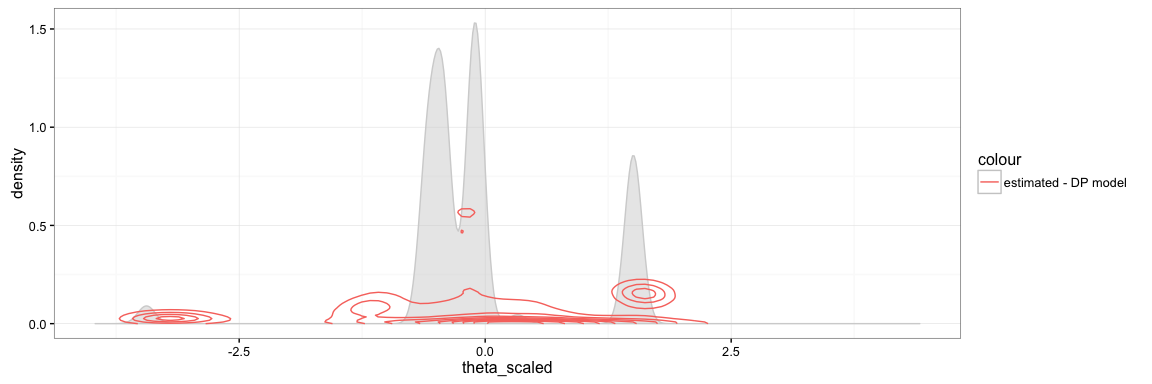
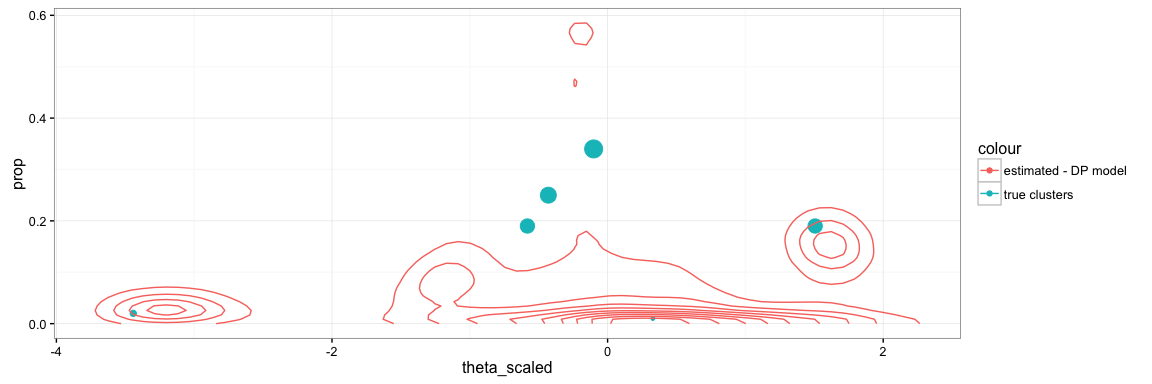
updated test_rstan_DPP figs to improve display

diff --git a/test_rstan_DPP.md b/test_rstan_DPP.md
@@ -187,7 +187,7 @@ Fitting the model in Stan
     ## theta[4]  0.25    0.03 0.42 -0.22 -0.06  0.11  0.48  1.39   148 1.02
     ## theta[5]  1.60    0.00 0.13  1.33  1.52  1.60  1.68  1.84   758 1.01
     ## 
-    ## Samples were drawn using NUTS(diag_e) at Tue May  3 14:27:02 2016.
+    ## Samples were drawn using NUTS(diag_e) at Tue May  3 18:49:39 2016.
     ## For each parameter, n_eff is a crude measure of effective sample size,
     ## and Rhat is the potential scale reduction factor on split chains (at 
     ## convergence, Rhat=1).
@@ -356,7 +356,7 @@ before.
     ## theta[4]  0.25    0.03 0.42 -0.22 -0.06  0.11  0.48  1.39   148 1.02
     ## theta[5]  1.60    0.00 0.13  1.33  1.52  1.60  1.68  1.84   758 1.01
     ## 
-    ## Samples were drawn using NUTS(diag_e) at Tue May  3 14:27:51 2016.
+    ## Samples were drawn using NUTS(diag_e) at Tue May  3 18:50:38 2016.
     ## For each parameter, n_eff is a crude measure of effective sample size,
     ## and Rhat is the potential scale reduction factor on split chains (at 
     ## convergence, Rhat=1).
@@ -540,7 +540,7 @@ since that's the "ground truth"
     ## theta[4]  0.50    0.03 0.52 -0.23  0.07  0.45  0.85  1.56   254 1.02
     ## theta[5]  1.48    0.15 0.35  0.53  1.40  1.55  1.66  2.01     5 1.23
     ## 
-    ## Samples were drawn using NUTS(diag_e) at Tue May  3 14:29:08 2016.
+    ## Samples were drawn using NUTS(diag_e) at Tue May  3 18:52:08 2016.
     ## For each parameter, n_eff is a crude measure of effective sample size,
     ## and Rhat is the potential scale reduction factor on split chains (at 
     ## convergence, Rhat=1).
@@ -599,7 +599,7 @@ groups to, say, K = 10.
     ## theta[9]   1.23    0.02 0.42  0.29  0.94  1.35  1.56  1.83   649 1.00
     ## theta[10]  1.76    0.01 0.30  1.43  1.60  1.68  1.81  2.62  1006 1.00
     ## 
-    ## Samples were drawn using NUTS(diag_e) at Tue May  3 14:30:15 2016.
+    ## Samples were drawn using NUTS(diag_e) at Tue May  3 18:53:24 2016.
     ## For each parameter, n_eff is a crude measure of effective sample size,
     ## and Rhat is the potential scale reduction factor on split chains (at 
     ## convergence, Rhat=1).
@@ -625,7 +625,7 @@ than the proportions.
     ## theta[9]   1.23    0.02 0.42  0.29  0.94  1.35  1.56  1.83   649 1.00
     ## theta[10]  1.76    0.01 0.30  1.43  1.60  1.68  1.81  2.62  1006 1.00
     ## 
-    ## Samples were drawn using NUTS(diag_e) at Tue May  3 14:30:15 2016.
+    ## Samples were drawn using NUTS(diag_e) at Tue May  3 18:53:24 2016.
     ## For each parameter, n_eff is a crude measure of effective sample size,
     ## and Rhat is the potential scale reduction factor on split chains (at 
     ## convergence, Rhat=1).
@@ -636,7 +636,14 @@ data.
     ## weighted distribution of true values of theta
     true_theta <- 
       restaurant %>%
-      mutate(theta_scaled = (theta - global_mean)/global_sd) 
+      mutate(theta_scaled = (theta - global_mean)/global_sd
+             , global_n = n()
+             ) %>%
+      group_by(table_id) %>%
+      summarize(theta_scaled = unique(theta_scaled)
+                , prop = unique(n()/global_n)
+                ) %>%
+      ungroup()
 
     ## weighted distribution of estimated values of theta from DP model
     estimated_theta_dp <- 
@@ -664,13 +671,12 @@ data.
                  )
 
     ggplot() +
-      geom_density(data = true_theta
-                   , mapping = aes(x = theta_scaled)
-                   , colour = 'lightgrey'
-                   , fill = 'lightgrey'
-                   , alpha = 0.5
-                   ) +
-      geom_density_2d(data = estimated_dp, mapping = aes(x = theta_scaled, y = prop, colour = 'estimated - DP model')) +
+      geom_point(data = true_theta
+                 , mapping = aes(x = theta_scaled, y = prop, size = prop, colour = 'true clusters', fill = 'true clusters')
+                 ) +
+      geom_density_2d(data = estimated_dp, mapping = aes(x = theta_scaled, y = prop, colour = 'estimated - DP model', fill = 'estimated - DP model')) + 
+      scale_fill_discrete(guide = "none") +
+      scale_size_continuous(guide = "none") +
       theme_bw()
 
 ![](RmdFigs/compare-dp-estimates-theta-1.png)<!-- -->
@@ -704,14 +710,13 @@ model with K = 4
                  )
 
     ggplot() +
-      geom_density(data = true_theta
-                   , mapping = aes(x = theta_scaled)
-                   , colour = 'lightgrey'
-                   , fill = 'lightgrey'
-                   , alpha = 0.5
-                   ) +
+      geom_point(data = true_theta
+                 , mapping = aes(x = theta_scaled, y = prop, size = prop, colour = 'true clusters', fill = 'true clusters')
+                 ) +
       geom_density_2d(data = estimated_dp, mapping = aes(x = theta_scaled, y = prop, colour = 'estimated - DP model')) +
       geom_density_2d(data = estimated_mix, mapping = aes(x = theta_scaled, y = prop, colour = 'estimated - k4 mixture model')) +
+      scale_fill_discrete(guide = "none") +
+      scale_size_continuous(guide = "none") +
       theme_bw()
 
 ![](RmdFigs/compare-dp-k4-estimates-thetas-1.png)<!-- -->
@@ -838,7 +843,7 @@ our data are rescaled so 5 is quite large!).
     ## theta[9]  -0.36    0.16 3.14 -7.24 -1.68 -0.29  1.39  6.73   380 1.01
     ## theta[10] -0.46    0.20 3.62 -8.31 -3.03 -0.36  1.53  8.19   341 1.01
     ## 
-    ## Samples were drawn using NUTS(diag_e) at Tue May  3 14:32:18 2016.
+    ## Samples were drawn using NUTS(diag_e) at Tue May  3 18:55:30 2016.
     ## For each parameter, n_eff is a crude measure of effective sample size,
     ## and Rhat is the potential scale reduction factor on split chains (at 
     ## convergence, Rhat=1).
@@ -880,12 +885,11 @@ we'll be using it again.)
                  )
 
     ggplot() +
-      geom_density(data = true_theta
-                   , mapping = aes(x = theta_scaled)
-                   , colour = 'lightgrey'
-                   , fill = 'lightgrey'
-                   , alpha = 0.5
-                   ) +
+      geom_point(data = true_theta
+                 , mapping = aes(x = theta_scaled, y = prop, size = prop, colour = 'true clusters', fill = 'true clusters')
+                 ) +
+      scale_fill_discrete(guide = "none") +
+      scale_size_continuous(guide = "none") +
       geom_density_2d(data = estimated_dp2, mapping = aes(x = theta_scaled, y = prop, colour = 'estimated - DP model')) +
       theme_bw()
 
@@ -916,7 +920,7 @@ close is this to our estimate?
     ##   mean se_mean   sd 2.5%  25% 50%   75% 97.5% n_eff Rhat
     ## a 8.73    1.02 7.14 0.54 2.75 6.9 13.11 25.71    49 1.07
     ## 
-    ## Samples were drawn using NUTS(diag_e) at Tue May  3 14:32:18 2016.
+    ## Samples were drawn using NUTS(diag_e) at Tue May  3 18:55:30 2016.
     ## For each parameter, n_eff is a crude measure of effective sample size,
     ## and Rhat is the potential scale reduction factor on split chains (at 
     ## convergence, Rhat=1).
@@ -1024,7 +1028,7 @@ priors on a.
     ## theta[10] -0.35    0.15 1.39 -3.36 -1.07 -0.18 0.58  1.84    82 1.03
     ## a          1.40    0.03 0.61  0.47  0.95  1.32 1.78  2.78   372 1.00
     ## 
-    ## Samples were drawn using NUTS(diag_e) at Tue May  3 14:33:52 2016.
+    ## Samples were drawn using NUTS(diag_e) at Tue May  3 18:57:04 2016.
     ## For each parameter, n_eff is a crude measure of effective sample size,
     ## and Rhat is the potential scale reduction factor on split chains (at 
     ## convergence, Rhat=1).
@@ -1044,12 +1048,11 @@ known values (weighted by proportion)
                  )
 
     ggplot() +
-      geom_density(data = true_theta
-                   , mapping = aes(x = theta_scaled)
-                   , colour = 'lightgrey'
-                   , fill = 'lightgrey'
-                   , alpha = 0.5
-                   ) +
+      geom_point(data = true_theta
+                 , mapping = aes(x = theta_scaled, y = prop, size = prop, colour = 'true clusters', fill = 'true clusters')
+                 ) +
+      scale_fill_discrete(guide = "none") +
+      scale_size_continuous(guide = "none") +
       geom_density_2d(data = estimated_dp3, mapping = aes(x = theta_scaled, y = prop, colour = 'estimated - DP model')) +
       theme_bw()
 
@@ -1189,7 +1192,7 @@ before.
     ## theta[10] -0.29    0.20 5.08 -9.32 -3.68 -0.42 3.15  9.29   661 1.00
     ## a          0.85    0.04 0.48  0.19  0.51  0.76 1.11  1.97   132 1.04
     ## 
-    ## Samples were drawn using NUTS(diag_e) at Tue May  3 14:40:29 2016.
+    ## Samples were drawn using NUTS(diag_e) at Tue May  3 19:03:44 2016.
     ## For each parameter, n_eff is a crude measure of effective sample size,
     ## and Rhat is the potential scale reduction factor on split chains (at 
     ## convergence, Rhat=1).
@@ -1209,12 +1212,11 @@ thetas to known values (weighted by proportion)
                  )
 
     ggplot() +
-      geom_density(data = true_theta
-                   , mapping = aes(x = theta_scaled)
-                   , colour = 'lightgrey'
-                   , fill = 'lightgrey'
-                   , alpha = 0.5
-                   ) +
+      geom_point(data = true_theta
+                 , mapping = aes(x = theta_scaled, y = prop, size = prop, colour = 'true clusters', fill = 'true clusters')
+                 ) +
+      scale_fill_discrete(guide = "none") +
+      scale_size_continuous(guide = "none") +
       geom_density_2d(data = estimated_dp4, mapping = aes(x = theta_scaled, y = prop, colour = 'estimated - DP model')) +
       theme_bw()
 
